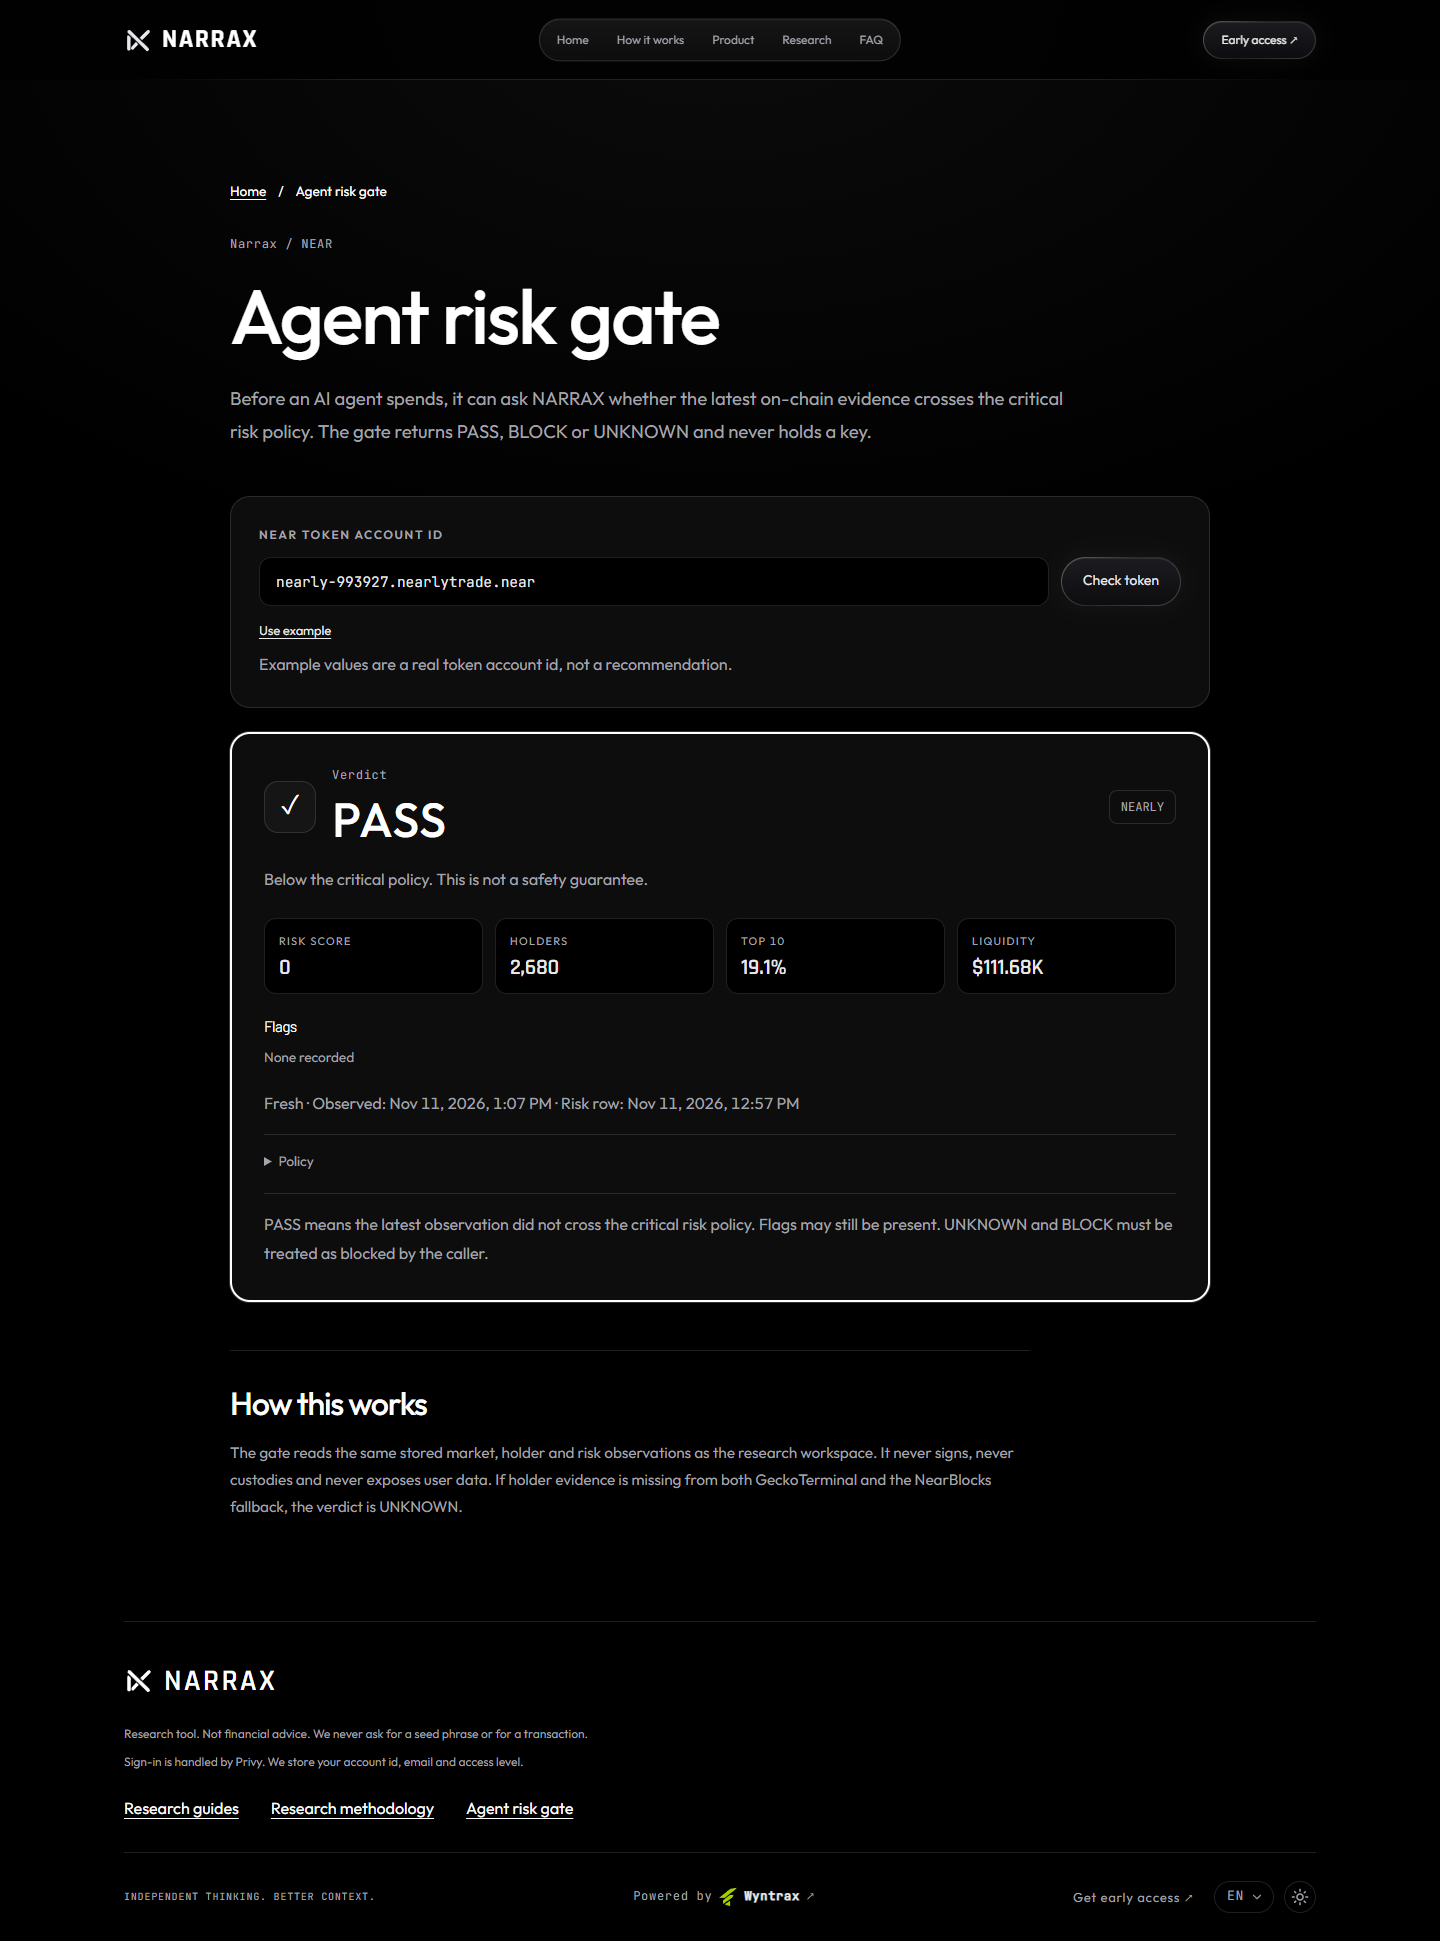
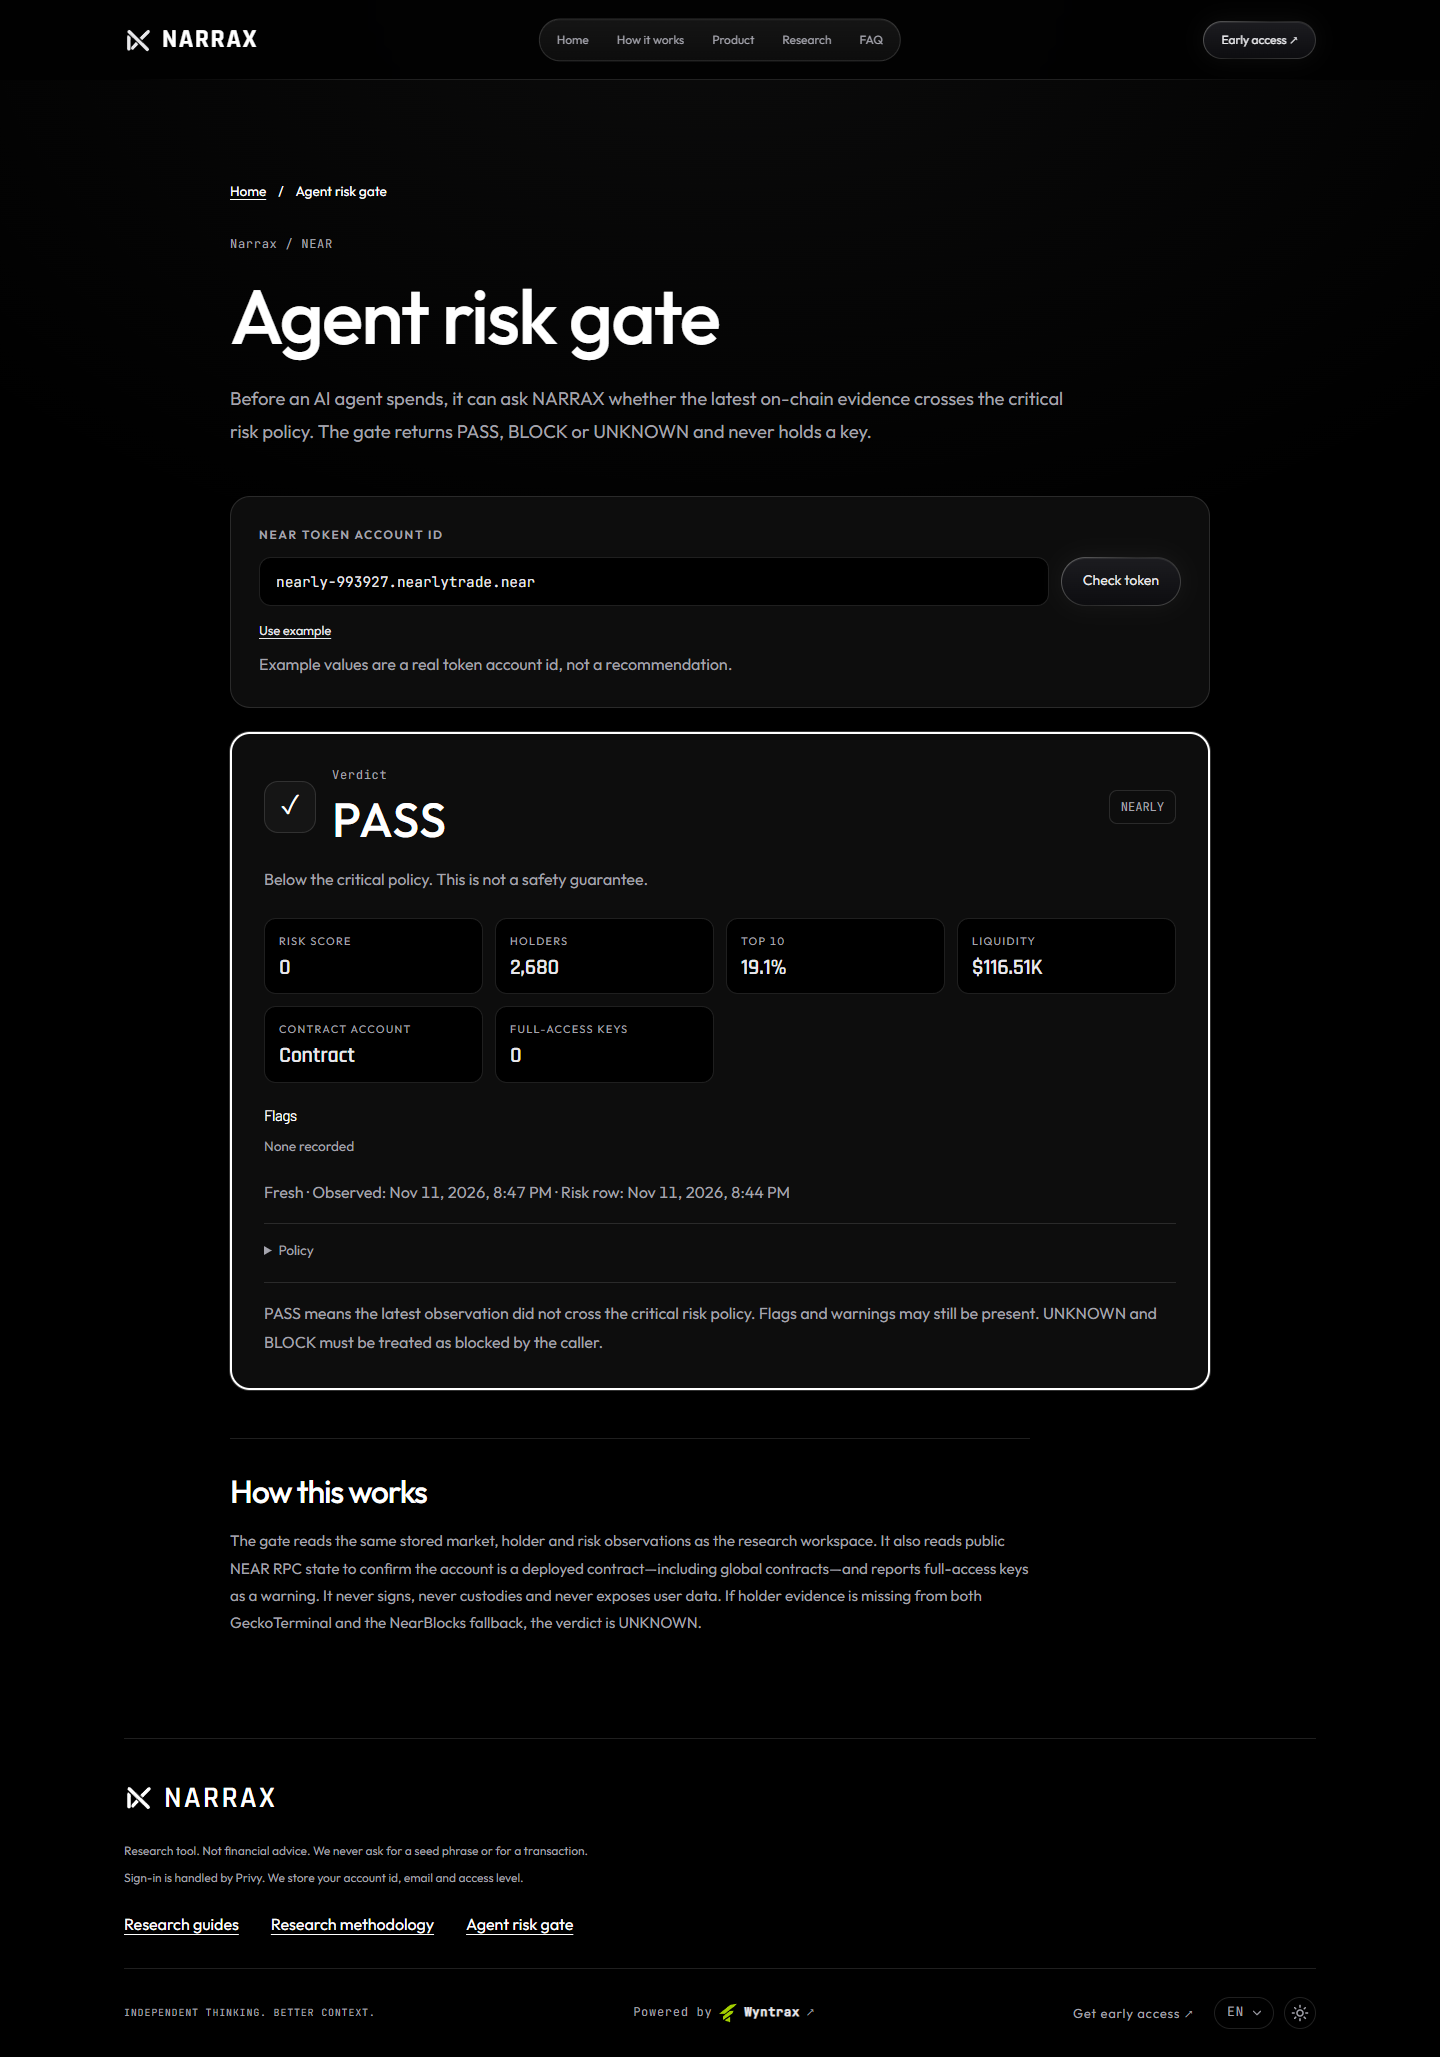
feat: refresh demo evidence from public sources before judging

diff --git a/scripts/demo-refresh.ts b/scripts/demo-refresh.ts
@@ -1,0 +1,81 @@
+import { createPrisma } from '@narra/database';
+import { NearRpc, nearConfigFromEnv } from '@narra/near';
+import { DexScreenerSource, GeckoTerminalSource, NearBlocksHolderSource } from '@narra/market-data';
+import { refreshMarketData } from '../workers/pipeline/src/marketData';
+
+/**
+ * Refreshes the existing demo rows from the same public sources as the research worker.
+ *
+ *   npm run demo:refresh
+ *
+ * It never shifts timestamps and never invents a value: every row it writes is a real observation
+ * made now. Without this step a freshly seeded demo ages out of the gate's freshness window and the
+ * correct verdict is UNKNOWN. It refreshes existing tokens only; it does not discover new ones.
+ */
+
+const EXAMPLE_MINT = 'nearly-993927.nearlytrade.near';
+const METRIC_FRESH_MS = 15 * 60_000;
+const EVIDENCE_FRESH_MS = 60 * 60_000;
+
+async function main() {
+  if (!process.env.DATABASE_URL) throw new Error('DATABASE_URL is required for the demo refresh');
+  const db = createPrisma();
+  try {
+    const near = nearConfigFromEnv();
+    // The demo seed is mainnet research data. Keep the holder fallback on mainnet even when the chain
+    // status probe is configured for testnet; an explicit DEMO_NEAR_RPC_URL wins.
+    const rpcUrl = process.env.DEMO_NEAR_RPC_URL
+      || (near.network === 'mainnet' ? near.rpcUrl : 'https://rpc.mainnet.near.org');
+    if (near.network !== 'mainnet' && !process.env.DEMO_NEAR_RPC_URL) {
+      console.log(`NEAR_NETWORK=${near.network}; demo data is mainnet, using ${rpcUrl} for the refresh`);
+    }
+    const rpc = new NearRpc({ url: rpcUrl, timeoutMs: 15_000 });
+    const gecko = new GeckoTerminalSource({ baseUrl: process.env.GECKOTERMINAL_BASE_URL });
+    const holders = new NearBlocksHolderSource({
+      baseUrl: process.env.NEARBLOCKS_BASE_URL,
+      totalSupply: async (mint) => {
+        const result = await rpc.callFunction<unknown>(mint, 'ft_total_supply');
+        return typeof result.value === 'string' ? result.value : null;
+      },
+    });
+
+    const started = Date.now();
+    const summary = await refreshMarketData(db, {
+      metadata: null,
+      quotes: new DexScreenerSource({ baseUrl: process.env.DEXSCREENER_BASE_URL }),
+      info: gecko,
+      holders,
+      launches: null,
+    }, new Date(), { maxTokens: 60, maxInfoCalls: 40 });
+    console.log(JSON.stringify({ ms: Date.now() - started, summary }, null, 2));
+
+    const token = await db.token.findUnique({
+      where: { mint: EXAMPLE_MINT },
+      select: {
+        symbol: true,
+        metrics: { orderBy: { at: 'desc' }, take: 1, select: { at: true, liquidityUsd: true } },
+        holders: { orderBy: { at: 'desc' }, take: 1, select: { at: true, holders: true, top10Pct: true } },
+        risk: { orderBy: { at: 'desc' }, take: 1, select: { at: true, riskScore: true, flags: true } },
+      },
+    });
+    const newestEvidence = [token?.holders[0]?.at, token?.risk[0]?.at]
+      .filter((at): at is Date => at instanceof Date)
+      .sort((a, b) => +b - +a)[0];
+    const metricAt = token?.metrics[0]?.at;
+    const metricFresh = metricAt instanceof Date && Date.now() - +metricAt <= METRIC_FRESH_MS;
+    const evidenceFresh = !!newestEvidence && Date.now() - +newestEvidence <= EVIDENCE_FRESH_MS;
+    const fresh = metricFresh && evidenceFresh;
+    console.log(JSON.stringify({ example: EXAMPLE_MINT, token, fresh, metricFresh, evidenceFresh }, null, 2));
+    if (!token || !fresh) {
+      console.error(`The demo example ${EXAMPLE_MINT} was not refreshed. The gate will return UNKNOWN, which is correct.`);
+      process.exitCode = 1;
+    }
+  } finally {
+    await db.$disconnect();
+  }
+}
+
+main().catch(error => {
+  console.error(error instanceof Error ? error.message : error);
+  process.exitCode = 1;
+});

diff --git a/README.md b/README.md
@@ -25,6 +25,7 @@ npm ci
 npx prisma generate --schema packages/database/prisma/schema.prisma
 npx prisma migrate deploy --schema packages/database/prisma/schema.prisma
 DEMO_SEED_CONFIRM=yes npm run demo:seed
+npm run demo:refresh
 npm run dev:api:public
 ```
 
@@ -44,6 +45,7 @@ For the seed step on PowerShell:
 Copy-Item .env.example .env
 $env:DEMO_SEED_CONFIRM='yes'
 npm run demo:seed
+npm run demo:refresh
 ```
 
 Then open `http://localhost:4010/agent-risk` and click **Use example**. You should see `PASS` for
@@ -51,9 +53,11 @@ NEARLY with 2,680 holders and 19.1% top-10 concentration. Open `http://localhost
 landing snapshot.
 
 `demo:seed` replaces the research tables in the target database, so point `DATABASE_URL` at a demo
-database, not production. The authenticated workspace (`/app/...`), including the `/app/agent`
-research chat, requires a Privy app and an AI provider key; it is shown in the demo video. Full judge
-checklist: [`docs/JUDGE.md`](./docs/JUDGE.md).
+database, not production. `demo:refresh` then fetches current public market, holder and risk evidence
+for the seeded tokens; without it a dated seed ages out of the freshness window and the gate correctly
+returns `UNKNOWN`. It never shifts timestamps or invents a value. The authenticated workspace
+(`/app/...`), including the `/app/agent` research chat, requires a Privy app and an AI provider key; it
+is shown in the demo video. Full judge checklist: [`docs/JUDGE.md`](./docs/JUDGE.md).
 
 ---
 

diff --git a/docs/DEMO.md b/docs/DEMO.md
@@ -73,6 +73,9 @@ Close on the repo:
 - Use a 16:9 browser window at 1440px or wider.
 - Hide bookmarks, terminal history and `.env` contents.
 - Use the mainnet research build; testnet has no DEX market feed.
+- Run `npm run demo:refresh` immediately before recording, so the `PASS` is a current observation
+  rather than a dated seed. If the refresh fails, record `UNKNOWN` and say that is the fail-closed
+  behavior; do not fake freshness.
 - Keep the mouse still during each narration line.
 - Add captions. The first caption should state the problem, not the project name.
 - Do not show long setup or install steps. The README covers reproducibility.
@@ -109,6 +112,7 @@ token gets UNKNOWN, which the policy treats as blocked. NARRAX never holds the k
 - [ ] CI and Security checks are green on the final `main`.
 - [ ] `THESIS_EVIDENCE.md` is regenerated after the final collection window.
 - [ ] `THESIS_CONTEXT.md` is regenerated on the final day; its timestamp is visible.
+- [ ] `npm run demo:refresh` was run after the final seed, so the recorded `PASS` is a current observation.
 - [ ] The demo video is public and the X post is published.
 - [ ] The X post says "built at NEAR HACKATHON", tags `@NEARProtocol` and `#NEARHackathon`.
 - [ ] Submission tracks are `thesis`, `security`, `open`.

diff --git a/docs/JUDGE.md b/docs/JUDGE.md
@@ -19,11 +19,15 @@ npm ci
 npx prisma generate --schema packages/database/prisma/schema.prisma
 npx prisma migrate deploy --schema packages/database/prisma/schema.prisma
 DEMO_SEED_CONFIRM=yes npm run demo:seed
+npm run demo:refresh
 npm run dev:api:public
 ```
 
 `demo:seed` loads a real read-only research snapshot. It removes and replaces the research tables in
-the target database, so point `DATABASE_URL` at a demo database, not production.
+the target database, so point `DATABASE_URL` at a demo database, not production. `demo:refresh`
+fetches current public market, holder and risk evidence for the seeded tokens. Without it, a dated
+seed ages out of the freshness window and the gate correctly returns `UNKNOWN`; the refresh never
+shifts timestamps or invents values. It needs network access and may take about a minute.
 
 In a second terminal:
 
@@ -47,6 +51,7 @@ Seed step on PowerShell:
 Copy-Item .env.example .env
 $env:DEMO_SEED_CONFIRM='yes'
 npm run demo:seed
+npm run demo:refresh
 ```
 
 No Docker? Use a local Postgres 16 and set `DATABASE_URL` in `.env`. The default
